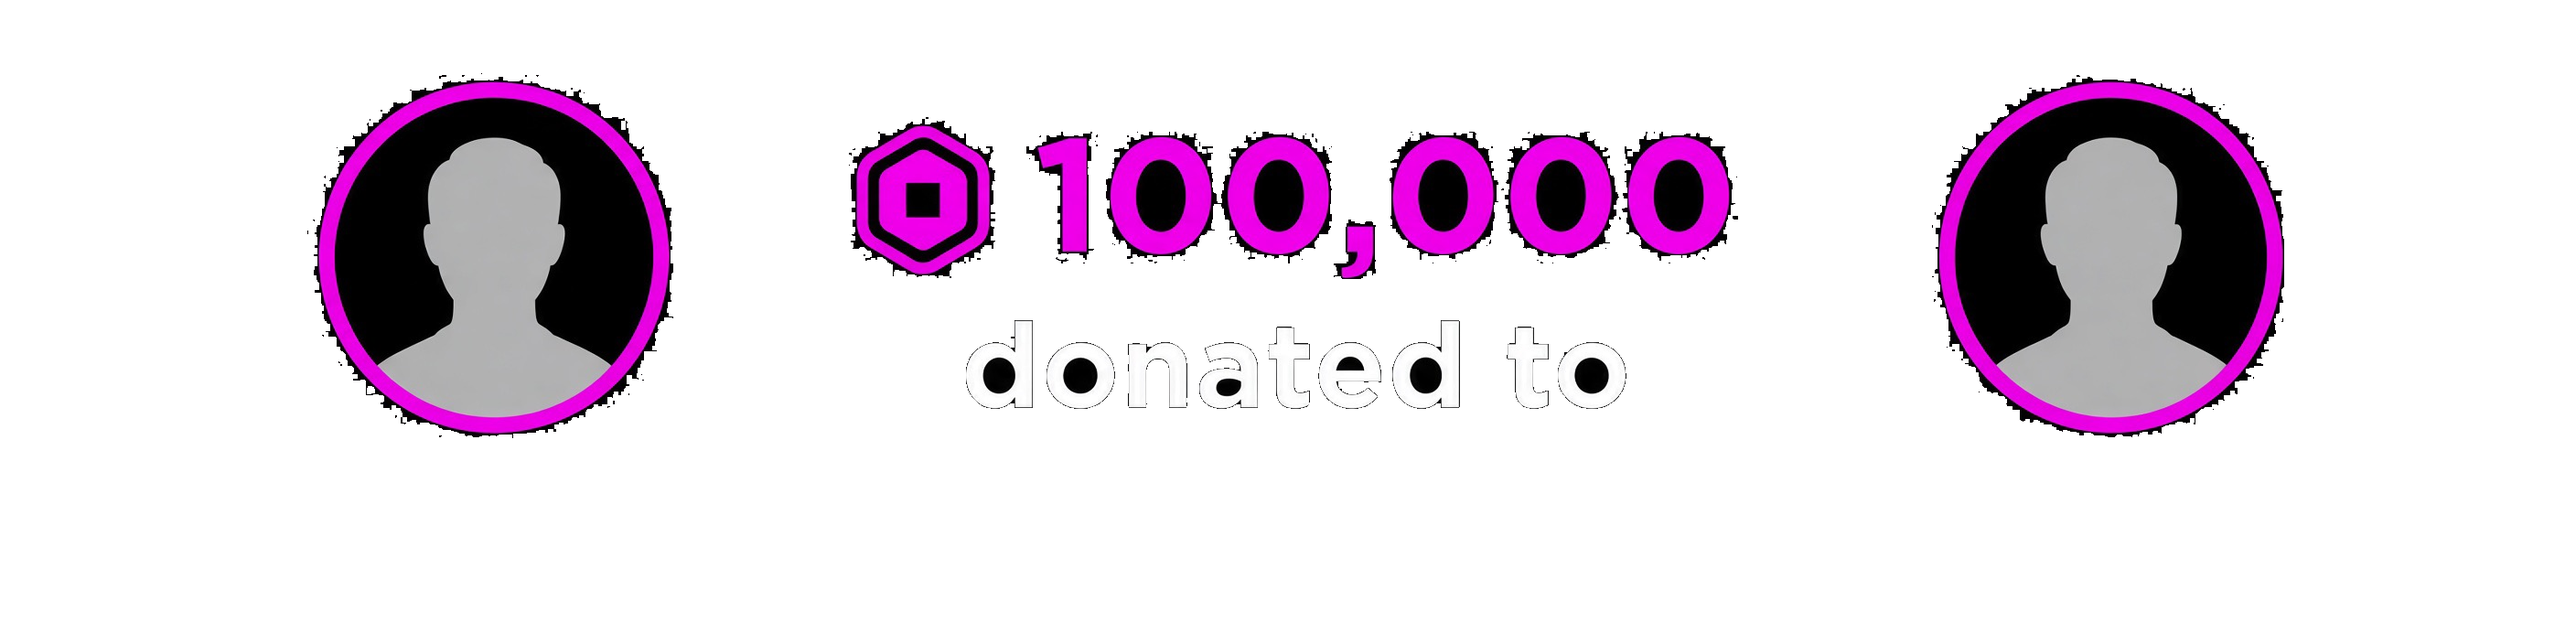
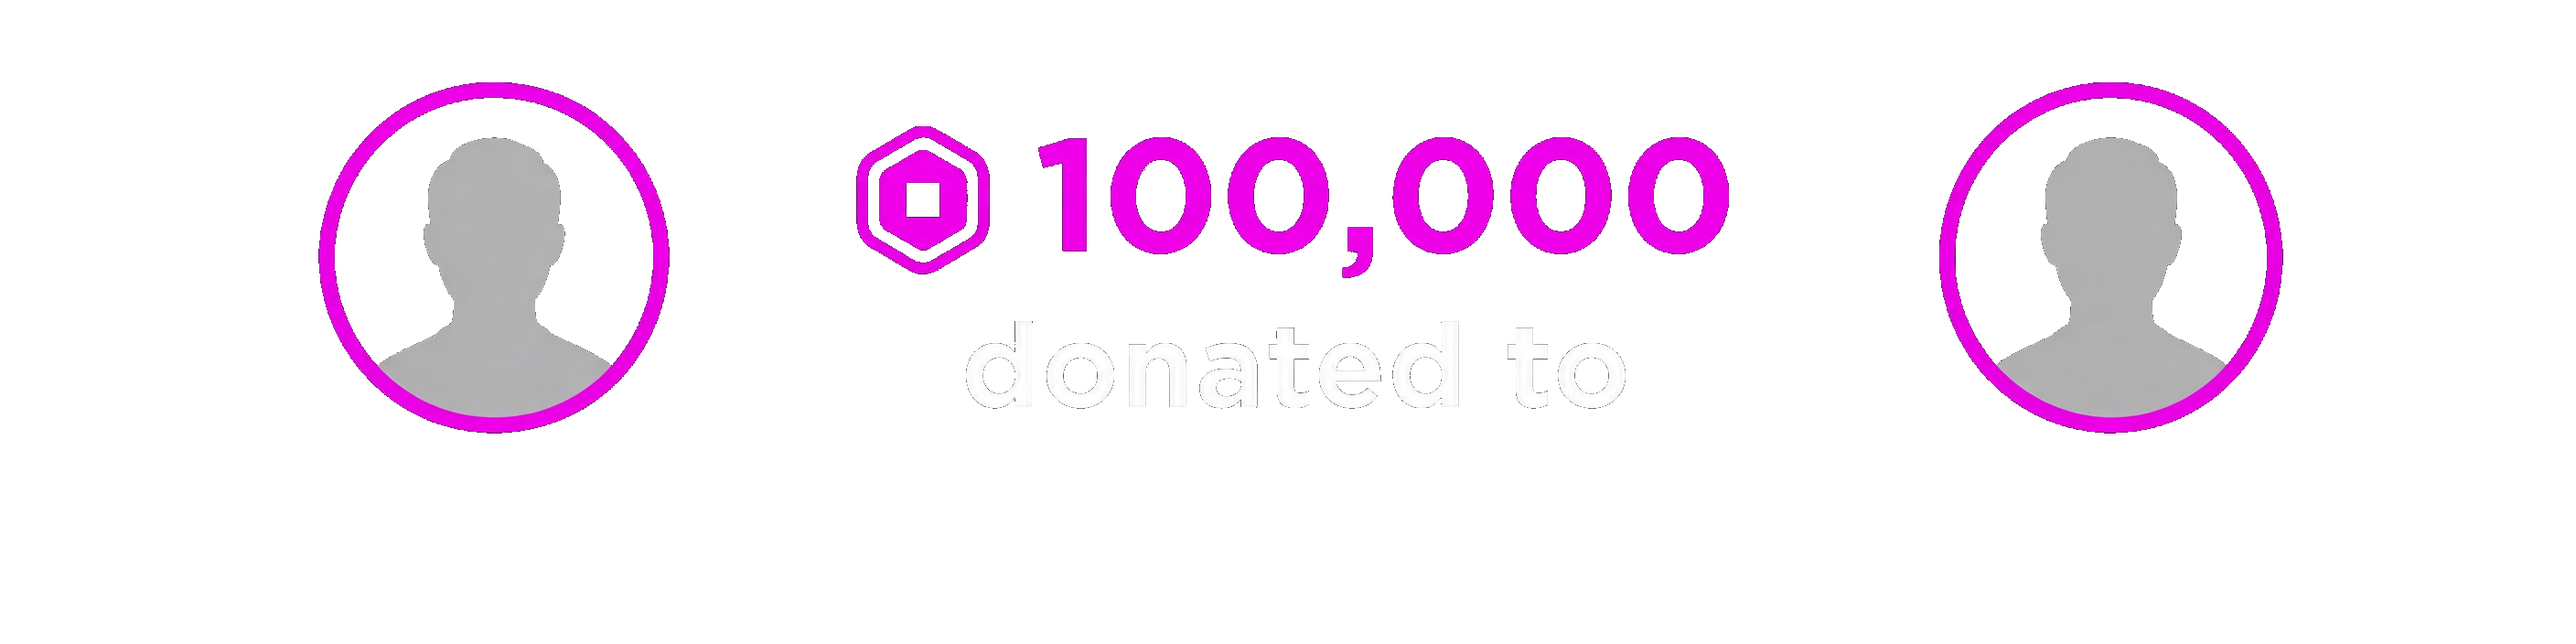
Clear black text plates; restore Smite fade hue
Rebuild PNG refs with global near-black void (incl. weak magenta
JPEG noise) so enclosed amount 0-counters and "donated to" letter
holes are transparent instead of opaque black plates. Strip residual
dark fringe around amount/donated glyphs.

Restore Smite synth accent to original RGB(255,0,130); keep strength
at 0.28 (was 0.34) so the fade stands out less without a color shift.

diff --git a/scripts/rebuild_ref_alpha.py b/scripts/rebuild_ref_alpha.py
@@ -2,33 +2,39 @@
 """Rebuild assets/refs/{nuke,smite,starfall}.png from JPGs.
 
 Goals:
-  - Outer void transparent (edge-flood near-black, tint-protected)
+  - Outer void transparent (near-black keyed globally — incl. enclosed glyph
+    counters so amount 0-holes and "donated to" counters are not black plates)
   - Placeholder User/@User erased BEFORE keying (avoids chewed name-band)
   - Smite/Starfall: soft accent bottom glow WITHOUT JPEG-noise chew holes
-    (replace noisy JPG fade with a smooth synthetic gradient matched to
-    Hazem on-black brightness)
+    (replace noisy JPG fade with a smooth synthetic gradient)
   - Nuke: no bottom glow
-  - Hot content (rings, amount, avatars, white text) stays opaque JPG RGB
+  - Hot content (rings, amount glyphs, avatars, white text) stays opaque JPG RGB
+
+Why global void (not edge-flood): JPEG amount/"donated to" sit on black. Edge
+flood cannot reach enclosed counters (0, o, a, e, d). Weak magenta JPEG noise
+inside those counters was also tint-protected and stayed as opaque black plates
+once the outer void went transparent. Near-black is void even if weakly tinted;
+real fade is mid-bright tint and is replaced by synth_fade for Smite/Starfall.
 """
 from __future__ import annotations
 
-from collections import deque
 from pathlib import Path
 
 import numpy as np
-from PIL import Image, ImageDraw, ImageFilter
+from PIL import Image, ImageFilter
 
 ROOT = Path(__file__).resolve().parents[1]
 REFS = ROOT / "assets" / "refs"
 
 ACCENT = {
     "nuke": (255, 0, 220),
-    "smite": (220, 60, 145),  # muted pink; less neon than the source accent
+    # Original Smite hue — mute via FADE strength only, never recolor.
+    "smite": (255, 0, 130),
     "starfall": (255, 10, 0),
 }
 
 # Synthetic soft glow (replaces speckled JPG fade). strength ≈ peak alpha/255
-# tuned so on-black appearance ≈ Hazem JPG bottom samples.
+# Smite: same hue, lower strength than original 0.34 so it stands out less.
 FADE = {
     "smite": dict(start_y=460, strength=0.28, exp=1.25, blur=12),
     "starfall": dict(start_y=240, strength=0.55, exp=1.05, blur=10),
@@ -78,7 +84,7 @@ def classify(jpg: np.ndarray):
     mx = jpg.max(2)
     mn = jpg.min(2)
     sat = mx - mn
-    # Broad tint so dark maroon/pink fade is never void-keyed
+    # Broad tint used for fade strip / hot content; NOT used to protect near-black.
     red_dom = (R >= G + 4) & (R >= B) & (R >= 6)
     mag_dom = (R >= G + 8) & (B >= G + 8) & (np.maximum(R, B) >= 20)
     tint = red_dom | mag_dom
@@ -87,39 +93,33 @@ def classify(jpg: np.ndarray):
     is_avatarish = (~tint) & (mx >= 28) & (sat >= 8)
     is_bright = mx >= 175
     is_content = is_white | is_hot | is_avatarish | is_bright
-    return tint, is_content, mx, sat, R
+    return tint, is_content, mx, sat, is_white, is_hot
 
 
-def edge_void(jpg, tint, is_content):
-    mx = jpg.max(2)
-    sat = mx - jpg.min(2)
-    is_void_cand = (((mx <= 16) & (sat <= 8)) | (mx <= 5)) & ~tint
-    h, w = mx.shape
-    visited = np.zeros((h, w), dtype=bool)
-    q = deque()
-    for x in range(w):
-        for y in (0, h - 1):
-            if is_void_cand[y, x]:
-                visited[y, x] = True
-                q.append((y, x))
-    for y in range(h):
-        for x in (0, w - 1):
-            if is_void_cand[y, x] and not visited[y, x]:
-                visited[y, x] = True
-                q.append((y, x))
-    while q:
-        y, x = q.popleft()
-        for dy, dx in ((-1, 0), (1, 0), (0, -1), (0, 1)):
-            ny, nx = y + dy, x + dx
-            if 0 <= ny < h and 0 <= nx < w and not visited[ny, nx] and is_void_cand[ny, nx]:
-                visited[ny, nx] = True
-                q.append((ny, nx))
-    is_void = visited & ~is_content & ~tint
-    # Close tiny void speckles inside solid
-    solid = Image.fromarray(((~is_void).astype(np.uint8) * 255), "L")
-    solid = solid.filter(ImageFilter.MaxFilter(5)).filter(ImageFilter.MinFilter(5))
-    is_void = (np.array(solid) == 0) & ~is_content & ~tint
-    return is_void
+def content_void(mx, sat, is_content):
+    """Global near-black → transparent (clears enclosed 0 / letter counters).
+
+    Unlike edge-flood, this reaches holes inside glyphs. Weak magenta JPEG
+    noise in those holes is included (near-black, not mid-bright fade).
+    """
+    near_black = ((mx <= 28) & (sat <= 36)) | (mx <= 12)
+    return near_black & ~is_content
+
+
+def strip_text_fringe(out, jpg, is_content, is_white, is_hot):
+    """Clear residual dark stroke/plate halo around amount + donated glyphs."""
+    textish = is_white | is_hot
+    timg = Image.fromarray((textish.astype(np.uint8) * 255), "L")
+    for _ in range(3):
+        timg = timg.filter(ImageFilter.MaxFilter(11))
+    near_text = np.array(timg) > 0
+    fringe = (
+        near_text
+        & ~is_content
+        & (out[:, :, 3] > 0)
+        & (out[:, :, :3].max(2) < 100)
+    )
+    out[fringe] = 0
 
 
 def synth_fade(h, w, accent, start_y, strength, exp, blur):
@@ -147,14 +147,15 @@ def synth_fade(h, w, accent, start_y, strength, exp, blur):
 def rebuild(tier: str) -> Image.Image:
     jpg0 = np.array(Image.open(REFS / f"{tier}.jpg").convert("RGB"), dtype=np.float32)
     jpg = erase_names(jpg0)
-    tint, is_content, mx, sat, R = classify(jpg)
-    is_void = edge_void(jpg, tint, is_content)
+    tint, is_content, mx, sat, is_white, is_hot = classify(jpg)
+    is_void = content_void(mx, sat, is_content)
 
     h, w = mx.shape
     out = np.zeros((h, w, 4), dtype=np.float32)
     out[:, :, :3] = jpg
     out[:, :, 3] = 255
     out[is_void] = 0
+    strip_text_fringe(out, jpg, is_content, is_white, is_hot)
 
     if tier in FADE:
         cfg = FADE[tier]
@@ -204,6 +205,7 @@ def main() -> None:
             f"{tier}: wrote {dest.name} A0={(a==0).mean()*100:.1f}% "
             f"soft={((a>0)&(a<255)).mean()*100:.1f}% "
             f"bot={arr[h-5, w//2].tolist()} y580={arr[580, w//2].tolist()} "
+            f"accent={ACCENT[tier]} "
             f"corners={[int(a[0,0]), int(a[0,-1]), int(a[-1,0]), int(a[-1,-1])]}"
         )
 
